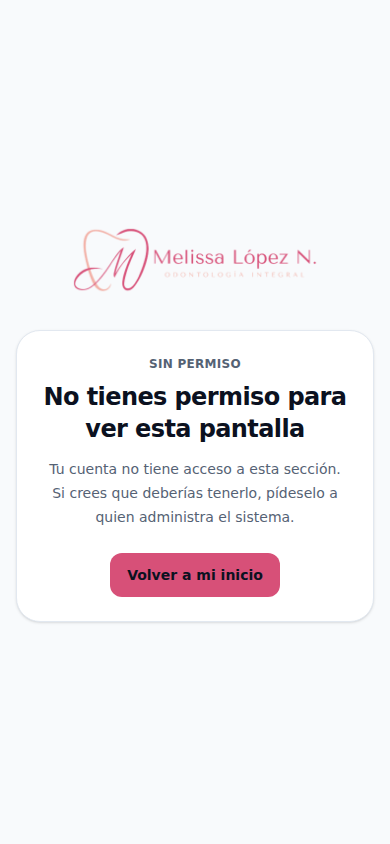
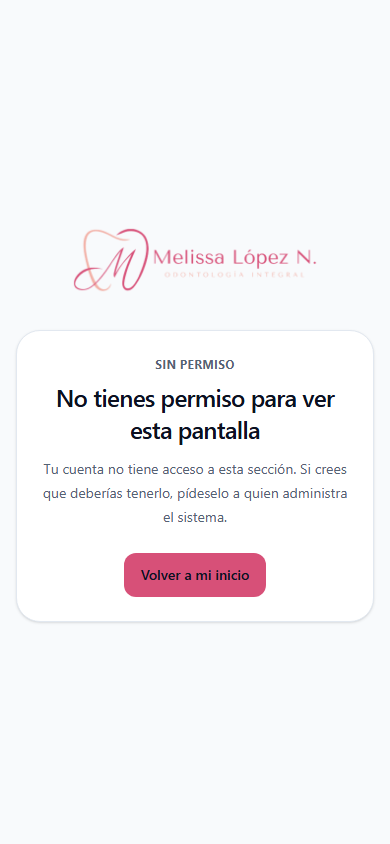
docs(018): T035 capture the agenda views of the assistant and the doctor
Tasks: docs/specs/018-agenda-por-rol/tasks.md

Changed region(s): [[0.0923, 0.4005, 0.8923, 0.6161], [0.2769, 0.6469, 0.7385, 0.7085]]

diff --git a/docs/specs/018-agenda-por-rol/tasks.md b/docs/specs/018-agenda-por-rol/tasks.md
@@ -158,7 +158,8 @@ Las tareas no añaden nada al análisis de [plan.md](plan.md); se revisa lo que 
 - [x] T034 Regenerar la línea base de composición con las entradas nuevas revisando el diff (solo cambian entradas de asistente, doctor y `error-403-admin`) — `tests/Browser/baseline-1440.json` — hecho cuando: `ui-audit` local pasa sin `--baseline` y el diff no toca entradas del administrador — depende: T033
   - nota: hecha 2026-10-18: `npm run test:ui -- --baseline --width 1440 --only <las 11 entradas>` escribe las 10 entradas nuevas de asistente y doctor y reescribe `expediente-doctor-cita-detalle` (diálogo; ahora con el registro clínico de la cita propia). El diff no toca entradas del administrador: `expediente-direccion-form` solo gana la coma final al dejar de ser la última línea. `error-403-admin` ya pasaba con `/usuarios` y no cambia
   - nota: A17 — entradas del administrador que cambian: ninguna
-- [ ] T035 Generar las capturas del inventario de vistas nuevas y de `error-403-admin` — `docs/design/capturas/ (generado por npm run test:ui -- --only agenda,expedientes,error-403 --width 390 y --width 1440)` — hecho cuando: cada fila nueva del inventario de `system.md` enlaza capturas que existen — depende: T001, T034
+- [x] T035 Generar las capturas del inventario de vistas nuevas y de `error-403-admin` — `docs/design/capturas/ (generado por npm run test:ui -- --only agenda,expedientes,error-403 --width 390 y --width 1440)` — hecho cuando: cada fila nueva del inventario de `system.md` enlaza capturas que existen — depende: T001, T034
+  - nota: hecha 2026-10-18: capturas a 390 y 1440 px de las 10 vistas nuevas, `error-403-admin` (ahora desde `/usuarios`) y `expediente-doctor-cita-detalle`, generadas con `--screenshots` y copiadas a `docs/design/capturas/`; todos los enlaces de `system.md` y `system.html` existen
 - [ ] T036 Actualizar el modelo de autorización y los puntos de entrada: asistente con la agenda salvo completar y eliminar; doctor con sus citas, completar y leer el seguimiento de las suyas; `/agenda`, `POST /complete` y `GET /tracking` en la tabla de puntos de entrada — `docs/security.md` — hecho cuando: la línea del modelo de autorización y las filas de la tabla coinciden con el contrato del plan — depende: T033
 
 ## Integración y documentación
